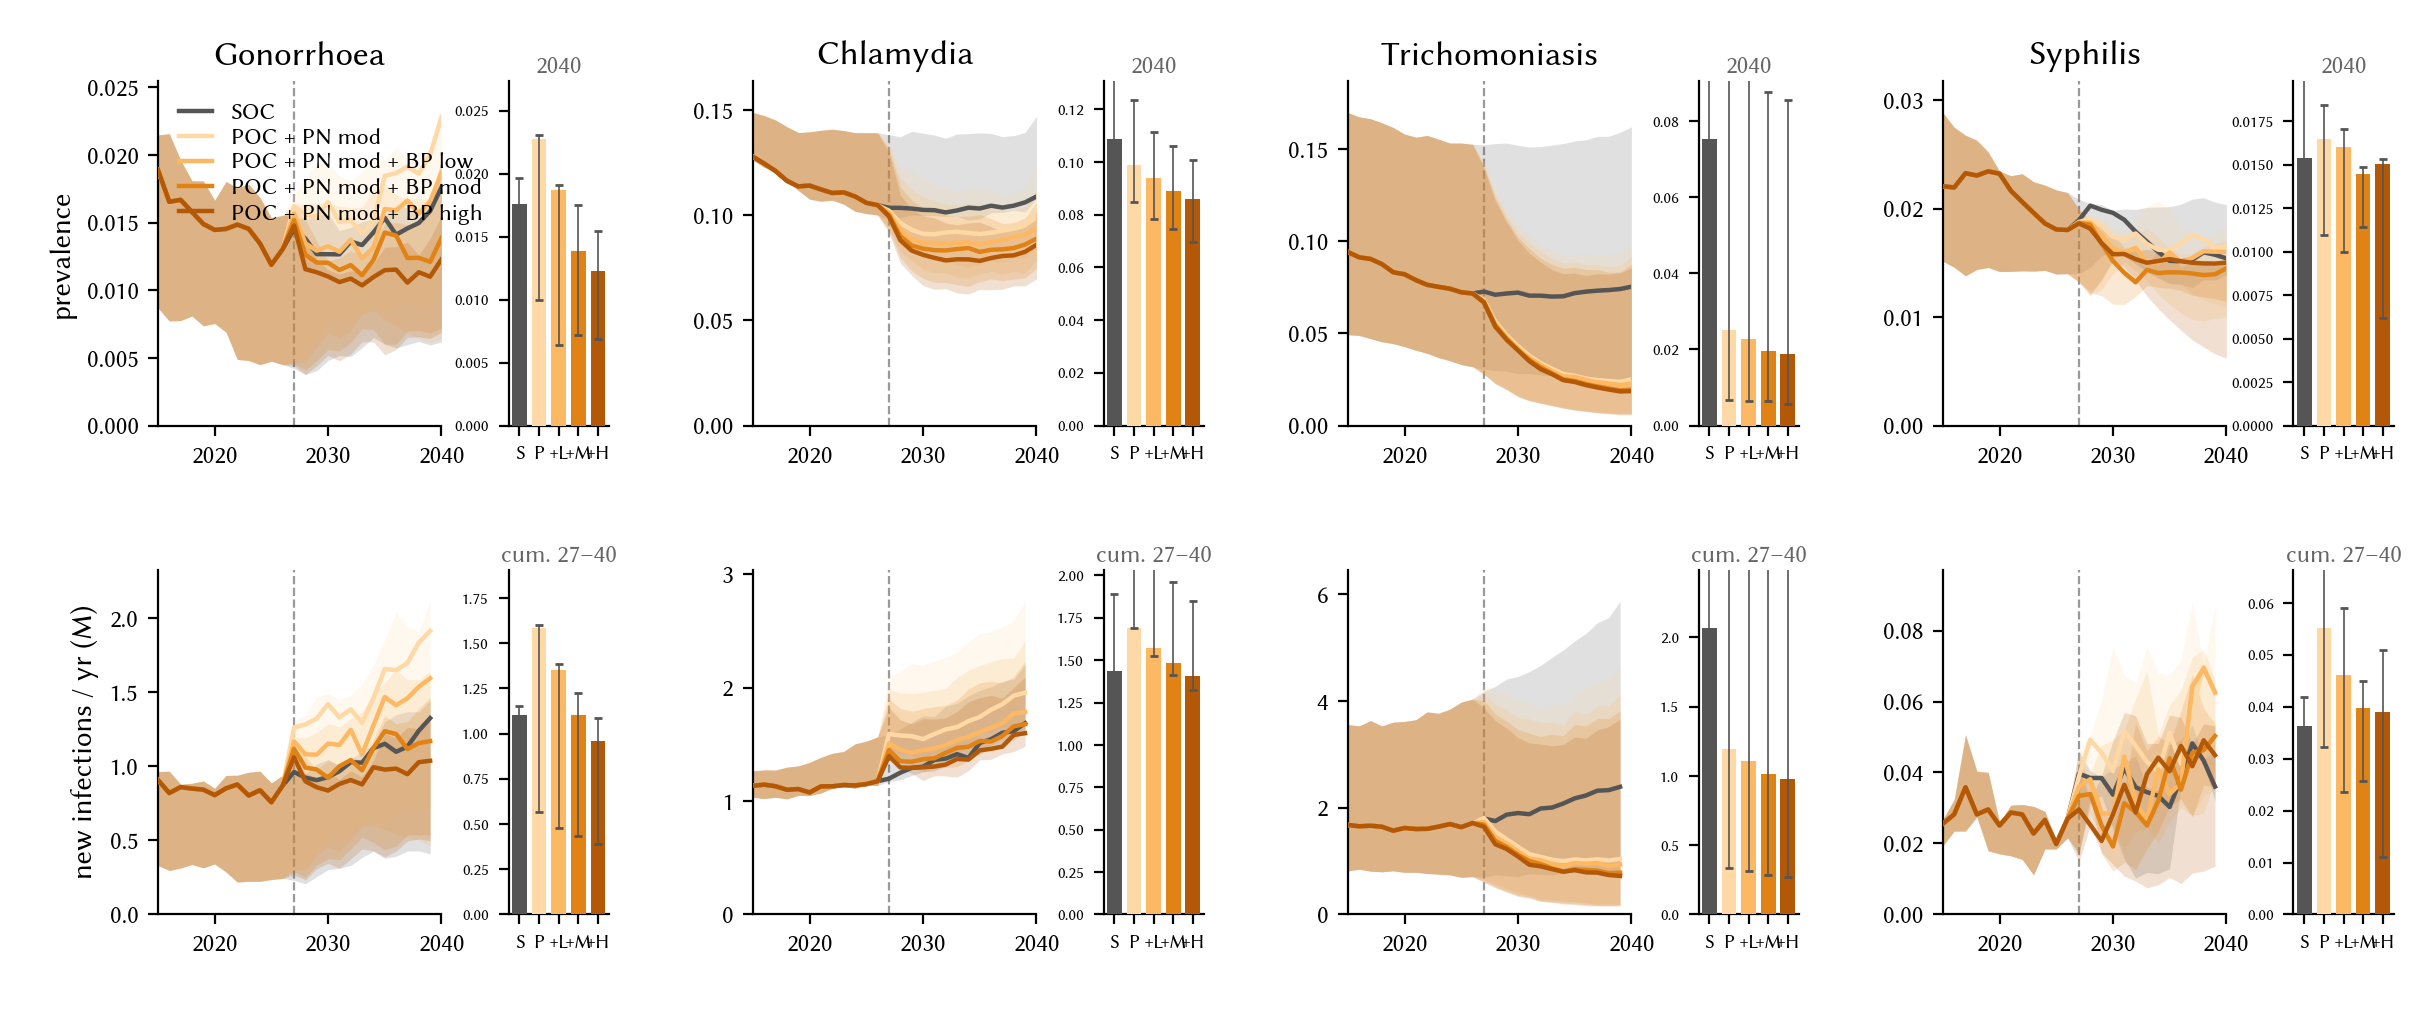
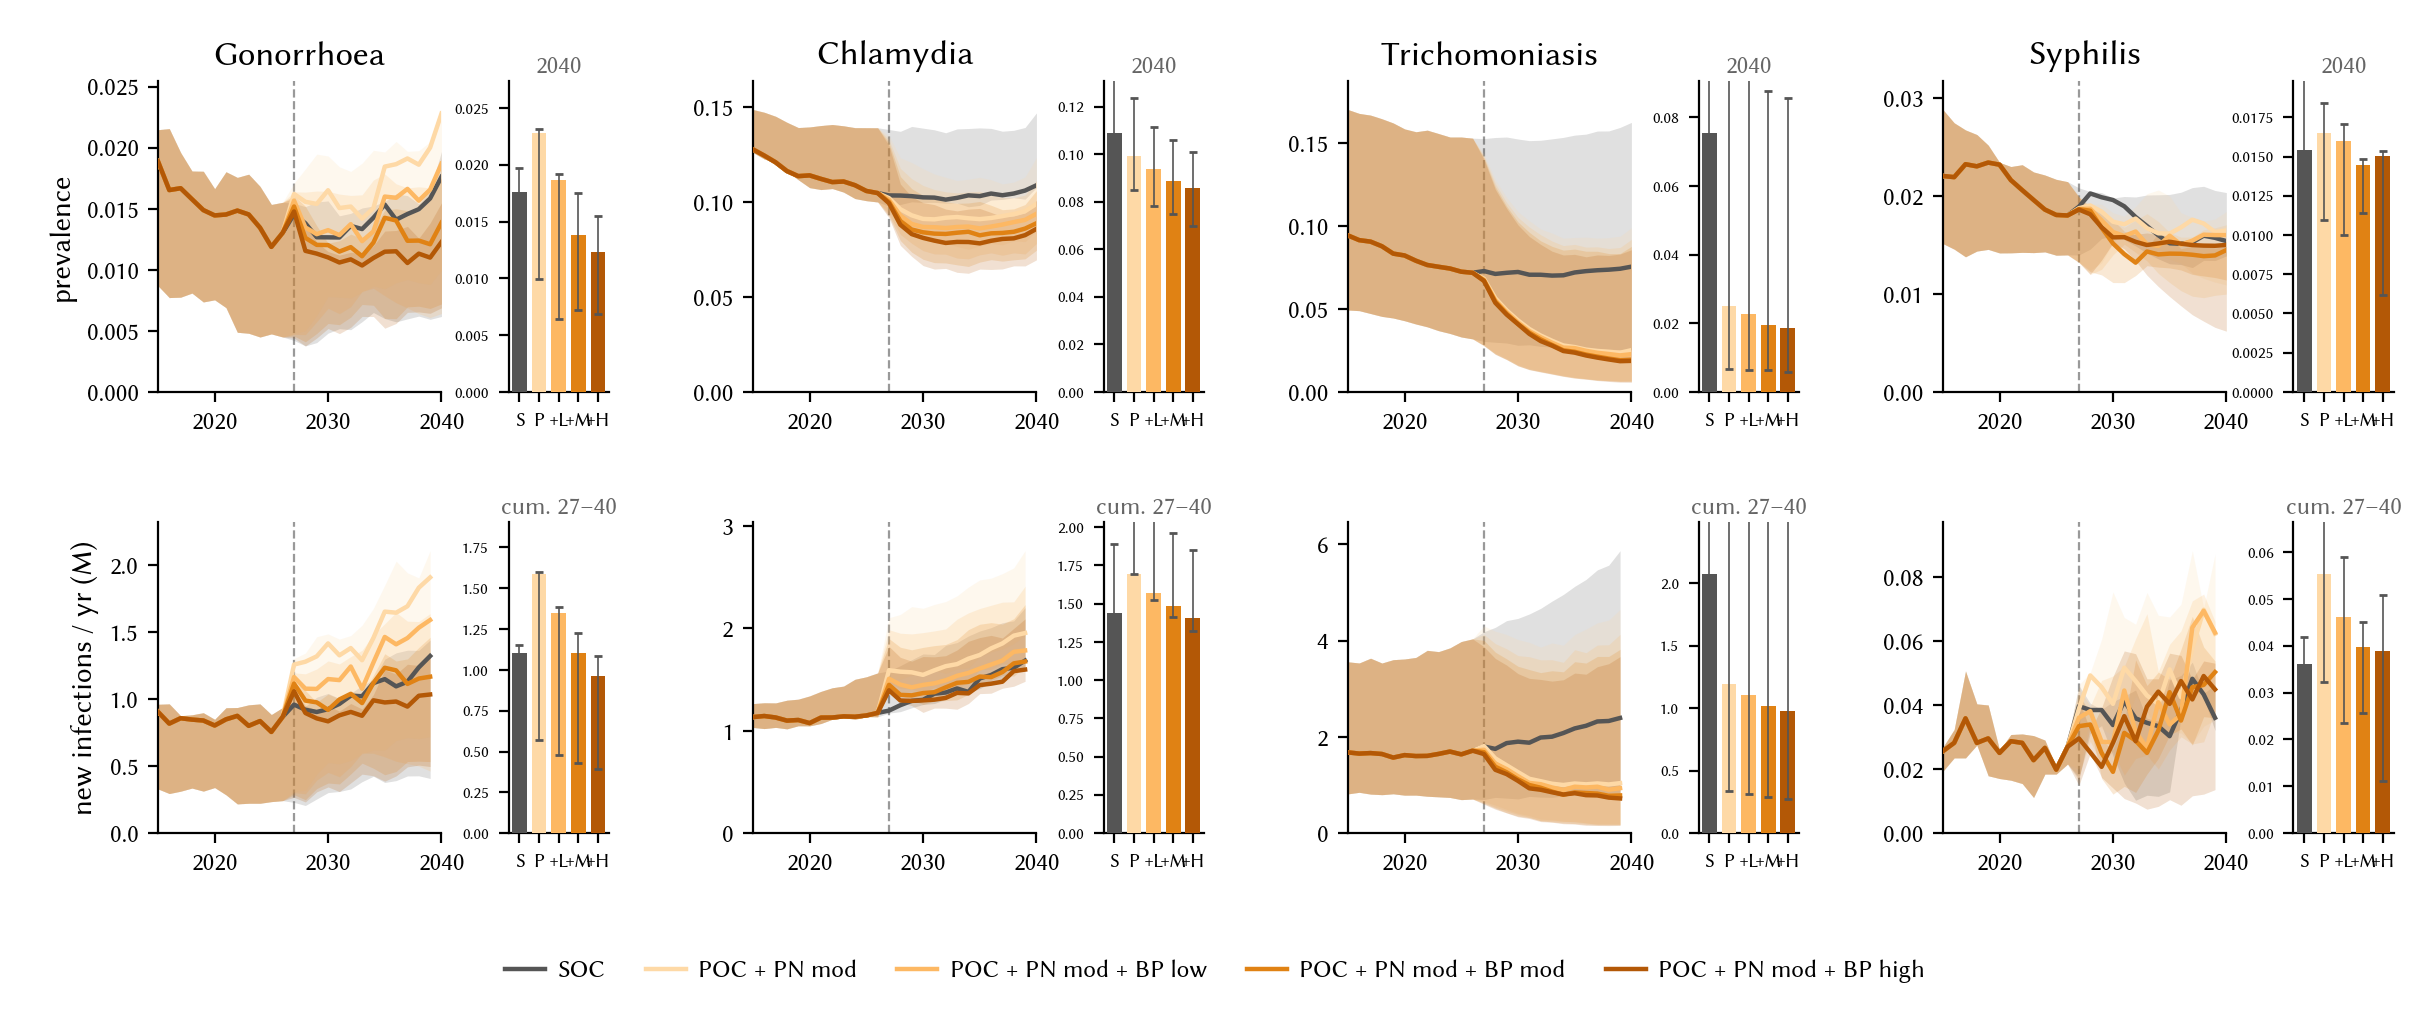
Drop suptitles/footnotes on slides 5-13; move legends
- Slide 5: legend moved to top-right of the PN cascade panel;
  suptitle removed; GridSpec top bumped from 0.86 to 0.94 to reclaim
  the freed space.
- Slide 6 helper (build_ts_grid_figure): suptitle + caption_note args
  dropped. Legend now auto-places -- inline in the NG-prev panel for
  2-arm figures (slide 6), or at the bottom center for many-arm
  figures (slides 9-11) where the inline legend was obscuring lines.
- Slides 9/10/11: callers cleaned up (no more suptitle= /
  caption_note= kwargs).
- Slide 12: suptitle + subtitle removed; over-tx / under-tx legend
  repositioned to bbox (0.99, 0.99); GridSpec top raised to 0.95.
- Slide 13: suptitle + top/bottom subtitle removed; subplots_adjust
  updated to give the bars more headroom.

diff --git a/plotting/plot_slide6.py b/plotting/plot_slide6.py
@@ -116,22 +116,27 @@ def draw_endpoint_bar(ax, k, disease, col, arms, arm_c,
     ax.spines[['top', 'right']].set_visible(False)
 
 
-def build_ts_grid_figure(k, ts, arms, arm_c, suptitle,
-                         caption_note=None, out_name='fig.png'):
+def build_ts_grid_figure(k, ts, arms, arm_c, out_name='fig.png'):
     """2 rows x 4 disease columns, each cell = TS + endpoint bar.
 
     Row 0: prevalence.  Row 1: new_infections/yr (trimmed to 2039).
+
+    Legend placement adapts to the number of arms: 2 arms (slide 6) fit
+    inline in the NG-prevalence panel; more arms (slides 9-11) go below
+    the figure so they don't obscure the time-series lines.
     """
     sc.fonts(add=FONT)
     sc.options(font='Libertinus Sans', fontsize=11)
 
-    # Subset the timeseries to only the arms we plot -- keeps memory + IO down
     ts_sub = ts[ts.cell.isin(arms.values())]
+    inline_legend = len(arms) <= 2
+    fig_bottom = 0.10 if inline_legend else 0.18
 
     fig = pl.figure(figsize=(12.15, 5.08))
     outer = GridSpec(2, 4, figure=fig, left=0.065, right=0.985,
-                     top=0.92, bottom=0.10, hspace=0.42, wspace=0.32)
+                     top=0.92, bottom=fig_bottom, hspace=0.42, wspace=0.32)
 
+    ax_ts_ng_prev = None
     for c, (d, dname) in enumerate(DISEASES):
         # Row 0: prevalence
         inner_p = GridSpecFromSubplotSpec(1, 2, subplot_spec=outer[0, c],
@@ -145,8 +150,7 @@ def build_ts_grid_figure(k, ts, arms, arm_c, suptitle,
         ax_bar.set_title('2040', fontsize=9, pad=3, color='#666')
         if c == 0:
             ax_ts.set_ylabel('prevalence', fontsize=10.5)
-            ax_ts.legend(fontsize=8.5, frameon=False, loc='upper left',
-                         labelspacing=0.15, handlelength=1.4)
+            ax_ts_ng_prev = ax_ts
 
         # Row 1: incidence (trimmed to 2039 to avoid end-year artefact)
         inner_i = GridSpecFromSubplotSpec(1, 2, subplot_spec=outer[1, c],
@@ -161,13 +165,15 @@ def build_ts_grid_figure(k, ts, arms, arm_c, suptitle,
         if c == 0:
             ax_ts.set_ylabel('new infections / yr (M)', fontsize=10.5)
 
-    # fig.suptitle(suptitle, fontsize=12.5, y=0.965)
-    # caption = ('Ensemble of 5 calibrated draws (exp 06 top-5). '
-    #            'Lines = median across draws; bands = 25–75 IQR. '
-    #            'Vertical dashed line = intervention start (2027).')
-    # if caption_note:
-    #     caption = caption + ' ' + caption_note
-    # fig.text(0.5, 0.02, caption, ha='center', fontsize=8.5, color='#666666')
+    if inline_legend:
+        ax_ts_ng_prev.legend(fontsize=8.5, frameon=False, loc='upper left',
+                             labelspacing=0.15, handlelength=1.4)
+    else:
+        handles, labels = ax_ts_ng_prev.get_legend_handles_labels()
+        fig.legend(handles, labels, fontsize=9, frameon=False,
+                   loc='lower center', ncol=len(arms),
+                   bbox_to_anchor=(0.5, 0.01),
+                   handlelength=1.6, handletextpad=0.5, columnspacing=1.6)
 
     FIGS.mkdir(exist_ok=True)
     p = FIGS / out_name
@@ -181,12 +187,7 @@ def main():
     ARM_C = {'SOC': '#555555', 'POC': '#e6772d'}
     k = pd.read_csv(KAVG)
     ts = pd.read_parquet(TS)
-    build_ts_grid_figure(
-        k, ts, ARMS, ARM_C,
-        suptitle=('POC diagnostics alone do not reduce prevalence or '
-                  'incidence — trajectories continue upward under both arms'),
-        out_name='fig_slide6.png',
-    )
+    build_ts_grid_figure(k, ts, ARMS, ARM_C, out_name='fig_slide6.png')
 
 
 if __name__ == '__main__':

diff --git a/plotting/plot_slide5.py b/plotting/plot_slide5.py
@@ -78,7 +78,7 @@ def main():
 
     fig = pl.figure(figsize=(11, 6.0))
     outer = GridSpec(1, 2, figure=fig, width_ratios=[6.2, 2.6],
-                     left=0.055, right=0.985, top=0.86, bottom=0.08,
+                     left=0.055, right=0.985, top=0.94, bottom=0.08,
                      wspace=0.22)
     left_gs = GridSpecFromSubplotSpec(3, 2, subplot_spec=outer[0],
                                       hspace=0.65, wspace=0.42)
@@ -126,16 +126,13 @@ def main():
     fig.text(0.678, 0.28, '→', ha='center', va='center', fontsize=26,
              color='#999')
 
-    # Legend (R1 style)
+    # Legend at the top of the right-hand PN panel (R1 style patches).
     h = [mpatches.Patch(facecolor='#888', edgecolor='none'),
          mpatches.Patch(facecolor='#888', alpha=0.28, edgecolor='none')]
-    fig.legend(h, ['warranted', 'unnecessary'], fontsize=9, frameon=False,
-               loc='upper right', bbox_to_anchor=(0.995, 1.0), ncol=2,
-               handlelength=1.0, handletextpad=0.4)
-
-    fig.suptitle('POC diagnostics improve correct-treatment rates but '
-                 'cannot eliminate over-treatment or over-notification',
-                 fontsize=12.5, y=0.965, x=0.42, ha='center')
+    ax_pn.legend(h, ['warranted', 'unnecessary'], fontsize=9, frameon=False,
+                 loc='upper right', ncol=1,
+                 handlelength=1.0, handletextpad=0.4,
+                 labelspacing=0.2)
 
     FIGS.mkdir(exist_ok=True)
     p = FIGS / 'fig_slide5.png'

diff --git a/plotting/plot_slide12.py b/plotting/plot_slide12.py
@@ -155,7 +155,7 @@ def main():
 
     fig = pl.figure(figsize=(15, 11.5))
     outer = GridSpec(4, 1, figure=fig, height_ratios=[3, 3, 3, 1.4],
-                     left=0.055, right=0.99, top=0.88, bottom=0.06,
+                     left=0.055, right=0.99, top=0.95, bottom=0.06,
                      hspace=0.75)
 
     row_specs = [outer[r].subgridspec(1, 4, wspace=0.30) for r in range(3)]
@@ -181,18 +181,12 @@ def main():
     # Row 4: aggregate over-notification strip
     draw_over_notif_strip(fig, outer[3], k)
 
-    fig.suptitle('All metrics across the 11 layered scenarios',
-                 fontsize=14, y=0.960)
-    fig.text(0.5, 0.930,
-             'Rows 1-3 are per-disease (prev / incidence / over-tx + under-tx). '
-             'Bottom strip: aggregate over-notification (PN false-alarm rate).',
-             ha='center', fontsize=9.5, color='#666', style='italic')
     # Global legend for over-tx vs under-tx (row 3)
     fig.legend(handles=[
         mpatches.Patch(facecolor='#666', alpha=OVER_C_A, label='over-treatment'),
         mpatches.Patch(facecolor='#666', alpha=OVER_C_B, label='under-treatment'),
     ], fontsize=9, frameon=False, loc='upper right',
-        bbox_to_anchor=(0.99, 0.955),
+        bbox_to_anchor=(0.99, 0.99),
         handlelength=1.2, handletextpad=0.4, ncol=2)
 
     FIGS.mkdir(exist_ok=True)

diff --git a/plotting/plot_slide13.py b/plotting/plot_slide13.py
@@ -168,18 +168,7 @@ def main():
     ax.spines[['top', 'right']].set_visible(False)
     ax.grid(axis='x', ls=':', color='#ccc', lw=0.5, zorder=0)
 
-    fig.suptitle('Optimistic-realistic scenario: reductions vs. SOC baseline',
-                 fontsize=13.5, y=0.975)
-    fig.text(0.5, 0.930,
-             'Best-case = POC + care-seeking moderate + PN moderate + '
-             'bundled prevention moderate.',
-             ha='center', fontsize=9.5, color='#666', style='italic')
-    fig.text(0.5, 0.02,
-             'Values = median across 5 draws from scenarios.kavg.csv. '
-             'Under-notification not directly instrumented in this run; would '
-             'require a tracer extension.',
-             ha='center', fontsize=8.5, color='#666666')
-    fig.subplots_adjust(left=0.32, right=0.94, top=0.88, bottom=0.11)
+    fig.subplots_adjust(left=0.32, right=0.94, top=0.96, bottom=0.07)
 
     FIGS.mkdir(exist_ok=True)
     p = FIGS / 'fig_slide13.png'

diff --git a/plotting/plot_slide10.py b/plotting/plot_slide10.py
@@ -30,14 +30,7 @@ ARM_C = {
 def main():
     k = pd.read_csv(KAVG)
     ts = pd.read_parquet(TS)
-    build_ts_grid_figure(
-        k, ts, ARMS, ARM_C,
-        suptitle=('Layering bundled prevention onto POC + moderate '
-                  'partner notification'),
-        caption_note=('PN held at moderate; care-seeking at baseline. '
-                      'Endpoint bar order: S=SOC, P=POC+PN mod, +L/M/H=+BP low/mod/high.'),
-        out_name='fig_slide10.png',
-    )
+    build_ts_grid_figure(k, ts, ARMS, ARM_C, out_name='fig_slide10.png')
 
 
 if __name__ == '__main__':

diff --git a/plotting/plot_slide11.py b/plotting/plot_slide11.py
@@ -30,14 +30,7 @@ ARM_C = {
 def main():
     k = pd.read_csv(KAVG)
     ts = pd.read_parquet(TS)
-    build_ts_grid_figure(
-        k, ts, ARMS, ARM_C,
-        suptitle=('Layering care-seeking onto POC + moderate PN + moderate '
-                  'bundled prevention'),
-        caption_note=('PN and BP held at moderate. '
-                      'Endpoint bar order: S=SOC, P=POC+PN mod+BP mod, +L/M/H=+CS low/mod/high.'),
-        out_name='fig_slide11.png',
-    )
+    build_ts_grid_figure(k, ts, ARMS, ARM_C, out_name='fig_slide11.png')
 
 
 if __name__ == '__main__':

diff --git a/plotting/plot_slide9.py b/plotting/plot_slide9.py
@@ -35,13 +35,7 @@ ARM_C = {
 def main():
     k = pd.read_csv(KAVG)
     ts = pd.read_parquet(TS)
-    build_ts_grid_figure(
-        k, ts, ARMS, ARM_C,
-        suptitle='Layering partner notification onto POC diagnostics',
-        caption_note=('Care-seeking and bundled prevention held at baseline. '
-                      'Endpoint bar order: S=SOC, P=POC alone, +L/M/H=POC+PN low/mod/high.'),
-        out_name='fig_slide9.png',
-    )
+    build_ts_grid_figure(k, ts, ARMS, ARM_C, out_name='fig_slide9.png')
 
 
 if __name__ == '__main__':
